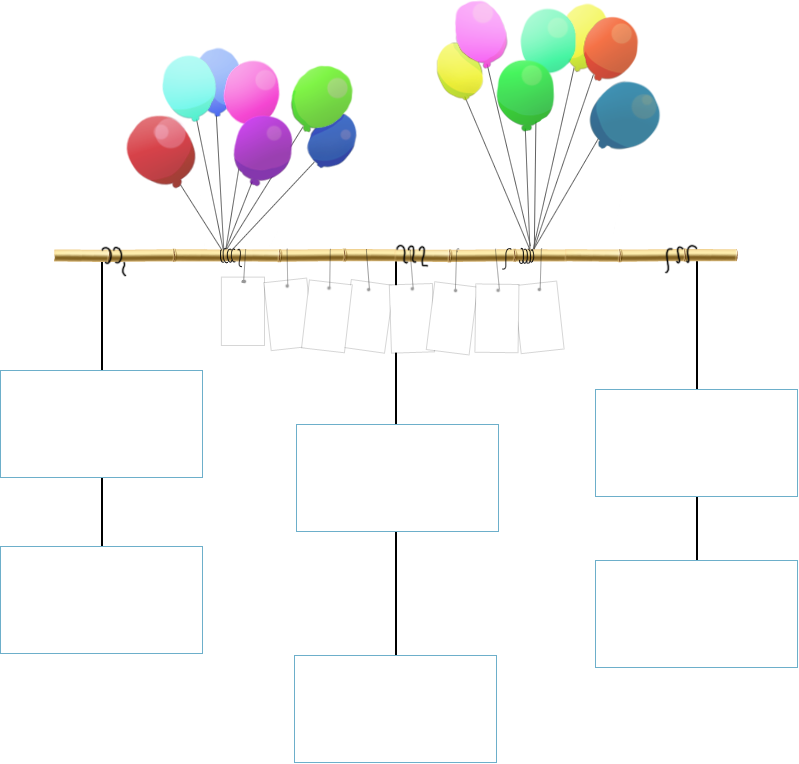
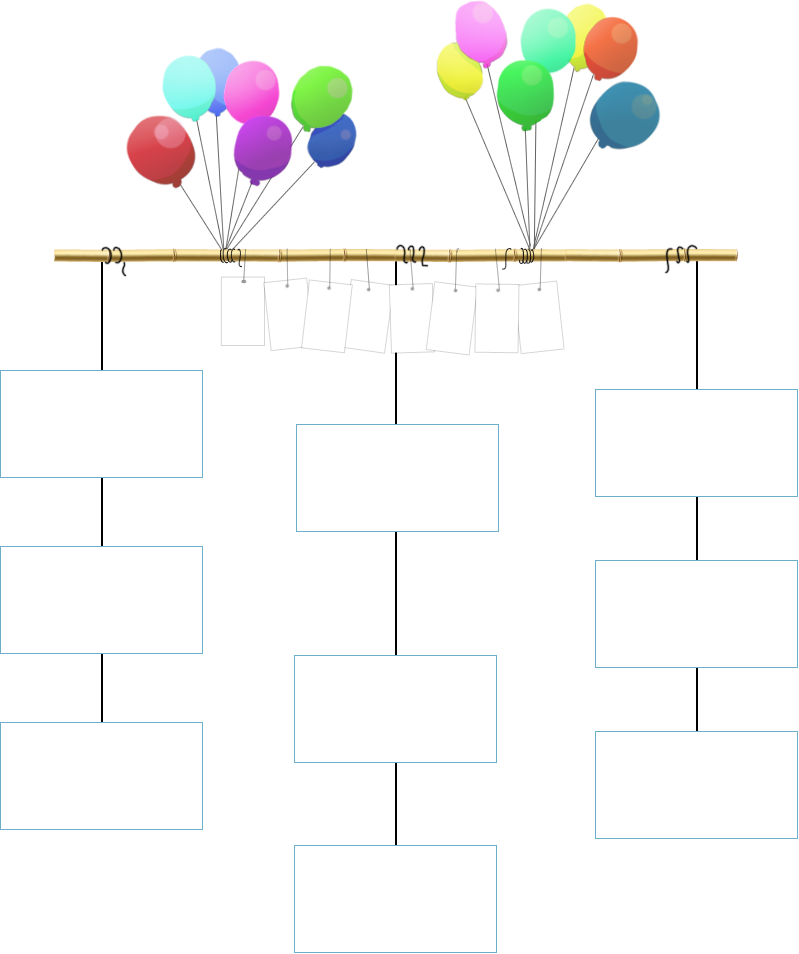
New sponsor: Travelyaari.

diff --git a/www/css/screen.css b/www/css/screen.css
@@ -673,7 +673,7 @@ hr {
   margin: 2em 0;
 }
 
-#sponsors {
+#sponsors-section {
   background-color: #bceef7;
   background-image: url('../img/gradient2.svg?1308068363');
   background-image: -webkit-gradient(linear, 50% 0%, 50% 100%, color-stop(0%, #5abcec), color-stop(100%, #bceef7));
@@ -689,28 +689,28 @@ hr {
   text-indent: -119988px;
   overflow: hidden;
   text-align: left;
-  background-image: url('../img/sponsors.png?1308164700');
+  background-image: url('../img/sponsors.png?1309257580');
   background-repeat: no-repeat;
   background-position: 50% 50%;
   width: 799px;
-  height: 764px;
+  height: 954px;
   margin-left: auto;
   margin-right: auto;
   margin-bottom: 2em;
 }
 
-#sponsors-heading {
+#sponsors {
   position: absolute;
   top: 302px;
   left: 312px;
   text-transform: uppercase;
   font-size: 300%;
 }
-#sponsors-heading #s-s1, #sponsors-heading #s-p, #sponsors-heading #s-o1, #sponsors-heading #s-n, #sponsors-heading #s-s2, #sponsors-heading #s-o2, #sponsors-heading #s-r, #sponsors-heading #s-s3 {
+#sponsors #s-s1, #sponsors #s-p, #sponsors #s-o1, #sponsors #s-n, #sponsors #s-s2, #sponsors #s-o2, #sponsors #s-r, #sponsors #s-s3 {
   position: absolute;
   top: 0;
 }
-#sponsors-heading #s-s1 {
+#sponsors #s-s1 {
   top: 0;
   left: 0;
   color: #d46b47;
@@ -720,7 +720,7 @@ hr {
   -ms-transform: rotate(0deg);
   transform: rotate(0deg);
 }
-#sponsors-heading #s-p {
+#sponsors #s-p {
   top: 3px;
   left: 46px;
   color: #50d152;
@@ -730,7 +730,7 @@ hr {
   -ms-transform: rotate(-7deg);
   transform: rotate(-7deg);
 }
-#sponsors-heading #s-o1 {
+#sponsors #s-o1 {
   top: 6px;
   left: 81px;
   color: #8834b0;
@@ -740,7 +740,7 @@ hr {
   -ms-transform: rotate(6deg);
   transform: rotate(6deg);
 }
-#sponsors-heading #s-n {
+#sponsors #s-n {
   top: 5px;
   left: 122px;
   color: #5872ef;
@@ -750,7 +750,7 @@ hr {
   -ms-transform: rotate(10deg);
   transform: rotate(10deg);
 }
-#sponsors-heading #s-s2 {
+#sponsors #s-s2 {
   top: 6px;
   left: 169px;
   color: #b53e49;
@@ -760,7 +760,7 @@ hr {
   -ms-transform: rotate(-2deg);
   transform: rotate(-2deg);
 }
-#sponsors-heading #s-o2 {
+#sponsors #s-o2 {
   top: 7px;
   left: 205px;
   color: #50d152;
@@ -770,7 +770,7 @@ hr {
   -ms-transform: rotate(7deg);
   transform: rotate(7deg);
 }
-#sponsors-heading #s-r {
+#sponsors #s-r {
   top: 6px;
   left: 254px;
   color: #d46b47;
@@ -780,7 +780,7 @@ hr {
   -ms-transform: rotate(1deg);
   transform: rotate(1deg);
 }
-#sponsors-heading #s-s3 {
+#sponsors #s-s3 {
   top: 6px;
   left: 297px;
   color: #536def;
@@ -913,6 +913,24 @@ hr {
   position: absolute;
   left: 676px;
   top: 576px;
+}
+
+#sponsor7 {
+  position: absolute;
+  left: 81px;
+  top: 738px;
+}
+
+#sponsor8 {
+  position: absolute;
+  left: 375px;
+  top: 861px;
+}
+
+#sponsor9 {
+  position: absolute;
+  left: 676px;
+  top: 747px;
 }
 
 #schedule {

diff --git a/sass/_layout.scss b/sass/_layout.scss
@@ -388,7 +388,7 @@ hr {
     margin: 2em 0;
 }
 
-#sponsors {
+#sponsors-section {
     background-color: #bceef7;
     background-image: image-url('gradient2.svg');
     @include background-image(linear-gradient(#5abcec, #bceef7));
@@ -402,7 +402,7 @@ hr {
     margin-bottom: 2em;
 }
 
-#sponsors-heading {
+#sponsors {
     position: absolute;
     top: 302px;
     left: 312px;
@@ -561,6 +561,24 @@ hr {
     position: absolute;
     left: 676px;
     top: 576px;
+}
+
+#sponsor7 {
+    position: absolute;
+    left: 81px;
+    top: 738px;
+}
+
+#sponsor8 {
+    position: absolute;
+    left: 375px;
+    top: 861px;
+}
+
+#sponsor9 {
+    position: absolute;
+    left: 676px;
+    top: 747px;
 }
 
 #schedule {

diff --git a/www/index.php b/www/index.php
@@ -17,7 +17,7 @@
   <link rel="shortcut icon" href="img/favicon.ico"/>
 
   <!-- Stylesheets -->
-  <link href="css/screen.css?v=10" rel="stylesheet" type="text/css" />
+  <link href="css/screen.css?v=11" rel="stylesheet" type="text/css" />
   <!--[if IE]>
       <link href="css/ie.css" media="screen, projection" rel="stylesheet" type="text/css" />
   <![endif]-->
@@ -114,10 +114,10 @@
           </div>
         </div>
       </article>
-      <article id="sponsors">
+      <article id="sponsors-section">
         <div class="content">
           <div id="sponsors-tree"><!-- --></div>
-          <h2 id="sponsors-heading"><span id="s-s1">S</span><span id="s-p">p</span><span id="s-o1">o</span><span id="s-n">n</span><span id="s-s2">s</span><span id="s-o2">o</span><span id="s-r">r</span><span id="s-s3">s</span></h2>
+          <h2 id="sponsors"><span id="s-s1">S</span><span id="s-p">p</span><span id="s-o1">o</span><span id="s-n">n</span><span id="s-s2">s</span><span id="s-o2">o</span><span id="s-r">r</span><span id="s-s3">s</span></h2>
           <div class="sponsor-logo" id="sponsor1" style="background-image: url(img/sponsors/fusioncharts.jpg)">
             <a class="sponsor-name" href="#sponsor-fusioncharts">FusionCharts</a>
           </div>
@@ -130,11 +130,20 @@
           <div class="sponsor-logo" id="sponsor4" style="background-image: url(img/sponsors/mobstac.png)">
             <a class="sponsor-name" href="#sponsor-mobstac">MobStac</a>
           </div>
-          <div class="sponsor-logo sponsor-available" id="sponsor5">
-            <a href="#sponsor-available">Your logo here</a>
-          </div>
           <div class="sponsor-logo" id="sponsor6" style="background-image: url(img/sponsors/adiquity.jpg)">
             <a class="sponsor-name" href="#sponsor-adiquity">AdIQuity</a>
+          </div>
+          <div class="sponsor-logo" id="sponsor5" style="background-image: url(img/sponsors/travelyaari.jpg)">
+            <a class="sponsor-name" href="#sponsor-travelyaari">Travelyaari</a>
+          </div>
+          <div class="sponsor-logo sponsor-available" id="sponsor7">
+            <a href="#sponsor-available">Your logo here</a>
+          </div>
+          <div class="sponsor-logo sponsor-available" id="sponsor8">
+            <a href="#sponsor-available">Your logo here</a>
+          </div>
+          <div class="sponsor-logo sponsor-available" id="sponsor9">
+            <a href="#sponsor-available">Your logo here</a>
           </div>
           <p>
             Check out our gracious sponsors. Read their stories on why they are a part of this event.
@@ -301,6 +310,22 @@
                 or <a href="mailto:connect@adiquity.com" class="sponsor-exit">get in touch (email)</a>
               </p>
             </div>
+            <div class="sponsor-popup" id="sponsor-travelyaari">
+              <img src="img/sponsors/travelyaari.jpg" class="sponsor-popup-logo" alt="Logo" />
+              <h2>Travelyaari</h2>
+              <p>
+                Mantis Technologies Pvt. Ltd. is a startup which provides technology products for
+                the bus industry. We build and deploy our own computerized reservation system at bus
+                operator's booking offices and across the ticketing agent network to ensure that full
+                inventory is made real time or "live". We also are an online travel agent -
+                www.travelyaari.com - which provides fast and easy online ticketing options for consumers.
+              </p>
+              <p>
+                The Travelyaari development team (which is hiring btw :-) will be at the event. 
+              </p>
+              <p>
+                <a href="http://www.travelyaari.com" target="_blank" class="sponsor-exit">Visit Travelyaari &rarr;</a>
+              </p>
           </div>
         </div>
       </article>
